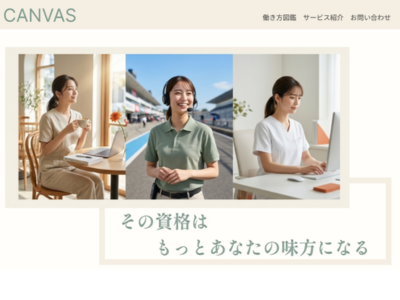
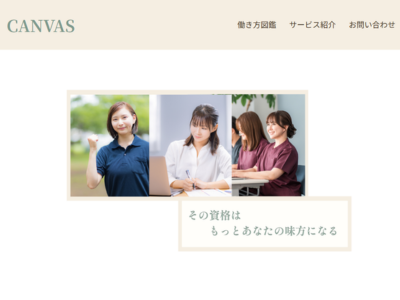
5/9-5

diff --git a/CANVAS-site/index.html b/CANVAS-site/index.html
@@ -13,7 +13,10 @@
   <link href="../css/ress.css" media="all" rel="stylesheet" type="text/css" />
   <link rel="stylesheet" href="../css/cussion-style.css" >
 </head>
+
 <body>
+  <div class="wrapper">
+
   <!-- header -->
     <header class="header">
       <div class="container">
@@ -67,7 +70,6 @@
 
 
  <!-- Technical Point / 技術的なこだわり -->
-  <!-- 以下HOMEと同じ仕様にするもしかしたら閉じタグ足りないかも -->
 <section class="skill section" id="SKILL">
   <div class="container">
         <h2 class="title">SKILL</h2>
@@ -75,8 +77,8 @@
   <div class="tech-container">
     <div class="tech-card">
     <div class="tech-num">01</div>
-      <h3>Design / Figma(Prototyping)</h3>
-      <p>Figmaを用い、ブランドの世界観を体現するUIデザインを行いました。</p>
+      <h3>Design / Figma</h3>
+      <p>Figmaを用い、企業様のコンセプトを体現するUIデザインを行いました。</p>
     </div>
 
     <div class="tech-card">
@@ -109,9 +111,9 @@
       <img src="../img/cushion/来訪者.png" alt="来訪者のアイコン"></div>
        
          <div class="detail-text">
-         <h3>来訪者：今の場所で精一杯走り続けている看護師様</h3>
-         <p>「大学病院での激務。専門性を磨かなきゃ、もっと頑張らなきゃって、自分を追い込んできた気がします。
-           でも、ふと立ち止まった時に、今の自分のキャリアを否定せずに、別の道も探していいんだよって言ってくれる場所が欲しかったんです。」</p>
+         <h3>来訪者：大学病院で働く20代後半の現役看護師様</h3>
+         <p>「大学病院での激務の日々。専門性を磨かなきゃ、もっと頑張らなきゃという想いがある。」<br>
+           「今の自分のキャリアを否定せずに、別の道も探していいと言ってくれる場所が欲しい。」</p>
           </div>
      
   </div>
@@ -121,8 +123,9 @@
       <img src="../img/cushion/制作者.png" alt="制作者のアイコン"></div>
            <div class="detail-text">
            <h3>依頼者：それぞれの歩みを肯定したいキャリア支援企業様</h3>
-            <p>「転職を勧めるだけの場所にはしたくない。今の場所で培ってきた経験を尊重し、その人が無理なく『自分らしい働き方』に出会えるきっかけを作りたい。
-           一人ひとりのキャリアが、ひとつの絵として完成していく。訪れた人が、今の自分のままでいいと深く呼吸を整えられる、そんな安心感のある場所を形にしてほしいです」</p>
+            <p>「まずは気軽に相談して貰うことで、顧客確保に繋げたい。」<br>
+              「転職を勧めるだけの場所にはしたくない。『自分らしい働き方』に出会えるきっかけを作りたい。」<br>
+           「今の自分のままでいいと深く呼吸を整えられる、そんな安心感のある場所を形にしてほしい。」</p>
           </div>
    </div>
    </div>
@@ -137,9 +140,10 @@
       <h2 class="title">POINT</h2>
          <div class="consept-text">
             <p>情報の羅列ではないレイアウト<br>
+              安心感を感じられる配色<br>
             「キャリアを認められている」という気持ちで読み進められる言葉選び<br>
               具体的な写真を使用したイメージのしやすさ<br>
-              相談ボタンへの誘導同線</p>
+              相談ボタンへのスムーズな誘導同線</p>
          </div>
     </div>
 </section>
@@ -150,12 +154,14 @@
  <section class="bridge-section" id="CONCEPT">
         <div class="container">
           <h2 class="title">CONCEPT</h2>
-    <h3 class="summary-phrase">「キャリアの肯定、そして新しい彩りを。」</h3>
+    <h3 class="summary-phrase">「あなたの未来に、新しい彩りを。」</h3>
     <p class="summary-description">
-      今までの歩みを抱きしめたまま、新しい扉を叩くこと。<br>
-来訪者が「今の自分」を肯定しながら、これからの未来に新しい彩りを添えていく
-その挑戦を支えたいという依頼者の想いも大切に、
-色彩豊かな明日への一歩を、静かに支える場所を構築しました。</p>
+キャリアを味方にしながら新たな場所で生き生きと働いていく…<br>
+来訪者がそんな自分をイメージすることができるよう<br>
+転職活動を新しいキャンバスに絵を描いていくプロセスになぞらえ、<br>
+色彩豊かな絵具や筆を使ったデザインで表現しました。<br>
+このサイトなら、新たな扉を叩く不安に寄り添ってくれる<br>
+そう感じられるような安心感のある場所を構築しました。</p>
   </div>
 </section>
 
@@ -173,15 +179,18 @@
         <span class="material-icons-outlined">expand_less</span>
       </div>
  </main>
+
   <!-- footer -->
     <footer class="footer">
       <div class="copyright">&copy;TOZUKA MANAMI</div>
     </footer>
     <!-- /footer -->
+</div>
 
-  </div>
+
   <!-- 以下jQueryと自分で書くjavascriptを読み込むためのコードです -->
   <script src="https://ajax.googleapis.com/ajax/libs/jquery/3.6.0/jquery.min.js"></script>
   <script type='text/javascript' src="../js/script.js"></script>
+
 </body>
 </html>

diff --git a/css/cussion-style.css b/css/cussion-style.css
@@ -42,7 +42,6 @@ img{
  ----------- */
 
 .wrapper{
-   /* headerのサイズに合わせてメインの始まりの場所を調整する、今は73pxにしている !!現時点でかぶってるかも修正必要!! */
   padding-top: 73px;
 }
 
@@ -236,7 +235,7 @@ ul {
    -----------*/
 
 .mv{
-  margin-top: 100px;
+  margin-top: 200px; 
   display: flex;
   align-items: center;
   justify-content: center;
@@ -429,9 +428,6 @@ transition: 0.3s;
 
 
 
-/* 以下JavaScriptで装飾する必要があります */
-js-page-top
-
 /*---------
  footer 
  ----------*/
@@ -525,6 +521,16 @@ js-page-top
   
   .page-nav-list li {
     font-size: 12px; 
+  }
+
+  /* main */
+  .mv {
+    height: 40vh;
+    margin-top: 170px;  
+  }
+  
+  .mv-container {
+    padding: 0 20px;
   }
 
   /* tech */

diff --git a/CANVAS-site/site/index.html b/CANVAS-site/site/index.html
@@ -3,9 +3,10 @@
   <head>
     <meta charset="utf-8">
     <title>看護師転職サイト CANVAS</title>
-    <meta name="description" content="看護師転職サイトCANVASのHPです。">
+    <meta name="description" content="看護師転職会社　CANVASをイメージし作成した仮想サイトです。">
     <meta name="viewport" content="width=device-width, initial-scale=1">
     <!-- フォント指定 -->
+     <link rel="stylesheet" href="https://use.typekit.net/qqu7aiq.css">
      <link rel="preconnect" href="https://fonts.googleapis.com">
      <link rel="preconnect" href="https://fonts.gstatic.com" crossorigin>
      <link href="https://fonts.googleapis.com/css2?family=BIZ+UDMincho&family=Josefin+Sans:ital,wght@0,100..700;1,100..700&family=Libre+Baskerville:ital,wght@0,400..700;1,400..700&family=Noto+Sans+JP&family=Philosopher:ital,wght@0,400;0,700;1,400;1,700&family=Roboto:ital,wght@0,100..900;1,100..900&family=Shippori+Mincho&family=Zen+Old+Mincho&display=swap" rel="stylesheet">
@@ -16,7 +17,7 @@
 <header class="page-header">
         <div class="header-container">
       <h1 class="logo-area">
-       <a href="index.html"><img class="logo-intro" src="img/logo.png" alt="CANVASロゴ"></a>
+       <a href="index.html"><p class="special-text">CANVAS</p></a>
       </h1>
       <nav>
           <ul class="main-nav font-english">
@@ -30,7 +31,7 @@
 
      <main>
       <section class="section-padding section-intro">
-       <img src="img/メイン.png" alt="メインビジュアル" class="main-visual">
+       <img src="img/mv.png" alt="メインビジュアル" class="main-visual">
        <img src="img/導入文.png" alt="導入文" class="dounyu">
        <img src="img/ベネフィット.png" alt="ベネフィット" class="benefit">
       </section>
@@ -38,15 +39,15 @@
 
       <article class="shigotozukann">
         <div class="zukann">
-         <img src="img/eventnurse.png" alt="イベントナース" >
+         <img src="img/event.png" alt="イベントナース" >
          <h2>【イベントナース】</h2><p>非日常な<br>レース会場やフェスが仕事場</p>
         </div>
         <div class="zukann">
-         <img src="img/zimunurse.png" alt="事務ナース" >
+         <img src="img/zimu.png" alt="事務ナース" >
          <h2>【事務ナース】</h2><p>もくもくと集中して<br>人間関係を気にせず働く</p>
         </div>
         <div class="zukann">
-         <img src="img/sisethunurse.png" alt="施設ナース" >
+         <img src="img/sisetu.png" alt="施設ナース" >
          <h2>【施設ナース】</h2><p>「生活」に寄り添う<br>週３日の穏やかな時間</p>
         </div>
       </article>
@@ -60,7 +61,7 @@
   </section>
 
     <footer class="page-footer">
-      <a href="index.html"><img class="logo logo-closing" src="img/logo.png" alt="CANVASロゴ"></a>
+      <a href="index.html"><p class="special-text">CANVAS</p></a>
         <nav>
           <ul class="main-nav font-english">
             <li><a href="#リンク先">働き方図鑑</a></li>

diff --git a/CANVAS-site/site/CANVAS.css b/CANVAS-site/site/CANVAS.css
@@ -26,6 +26,13 @@ img {
 }
 
 /* header */
+
+.special-text{
+  font-size: 50px;
+  color: #7E9A8E;
+ font-family: "big-caslon-fb", serif;
+}
+
 .header-container {
   display: flex;
   justify-content: space-between; /* ロゴを左、メニューを右に飛ばす */

diff --git a/MUKO-site/index.html b/MUKO-site/index.html
@@ -7,10 +7,9 @@
   <meta name="viewport" content="width=device-width,initial-scale=1.0">
   <link rel="icon" href="../img/favicon.ico">
   <link href="https://fonts.googleapis.com/css2?family=Material+Icons+Outlined" rel="stylesheet">
-   <link rel="preconnect" href="https://fonts.googleapis.com">
-<link rel="preconnect" href="https://fonts.gstatic.com" crossorigin>
-<link href="https://fonts.googleapis.com/css2?family=Itim&family=Kiwi+Maru&family=Poppins:wght@400;500;700&family=Zen+Maru+Gothic:wght@400;500;700&display=swap" rel="stylesheet">
-  
+  <link rel="preconnect" href="https://fonts.googleapis.com">
+  <link rel="preconnect" href="https://fonts.gstatic.com" crossorigin>
+  <link href="https://fonts.googleapis.com/css2?family=Itim&family=Kiwi+Maru&family=Poppins:wght@400;500;700&family=Zen+Maru+Gothic:wght@400;500;700&display=swap" rel="stylesheet">
   <link href="../css/ress.css" media="all" rel="stylesheet" type="text/css" />
   <link rel="stylesheet" href="../css/cussion-style.css" >
 </head>

diff --git a/mamori-site/index.html b/mamori-site/index.html
@@ -7,10 +7,9 @@
   <meta name="viewport" content="width=device-width,initial-scale=1.0">
   <link rel="icon" href="../img/favicon.ico">
   <link href="https://fonts.googleapis.com/css2?family=Material+Icons+Outlined" rel="stylesheet">
-   <link rel="preconnect" href="https://fonts.googleapis.com">
-<link rel="preconnect" href="https://fonts.gstatic.com" crossorigin>
-<link href="https://fonts.googleapis.com/css2?family=Itim&family=Kiwi+Maru&family=Poppins:wght@400;500;700&family=Zen+Maru+Gothic:wght@400;500;700&display=swap" rel="stylesheet">
-  
+  <link rel="preconnect" href="https://fonts.googleapis.com">
+  <link rel="preconnect" href="https://fonts.gstatic.com" crossorigin>
+  <link href="https://fonts.googleapis.com/css2?family=Itim&family=Kiwi+Maru&family=Poppins:wght@400;500;700&family=Zen+Maru+Gothic:wght@400;500;700&display=swap" rel="stylesheet">
   <link href="../css/ress.css" media="all" rel="stylesheet" type="text/css" />
   <link rel="stylesheet" href="../css/cussion-style.css" >
 </head>

diff --git a/css/ress.css b/css/ress.css
@@ -81,7 +81,7 @@ code,
 kbd,
 pre,
 samp {
- 
+  font-family: monospace, monospace; /* Specify the font family of code elements */
 }
 
 pre {